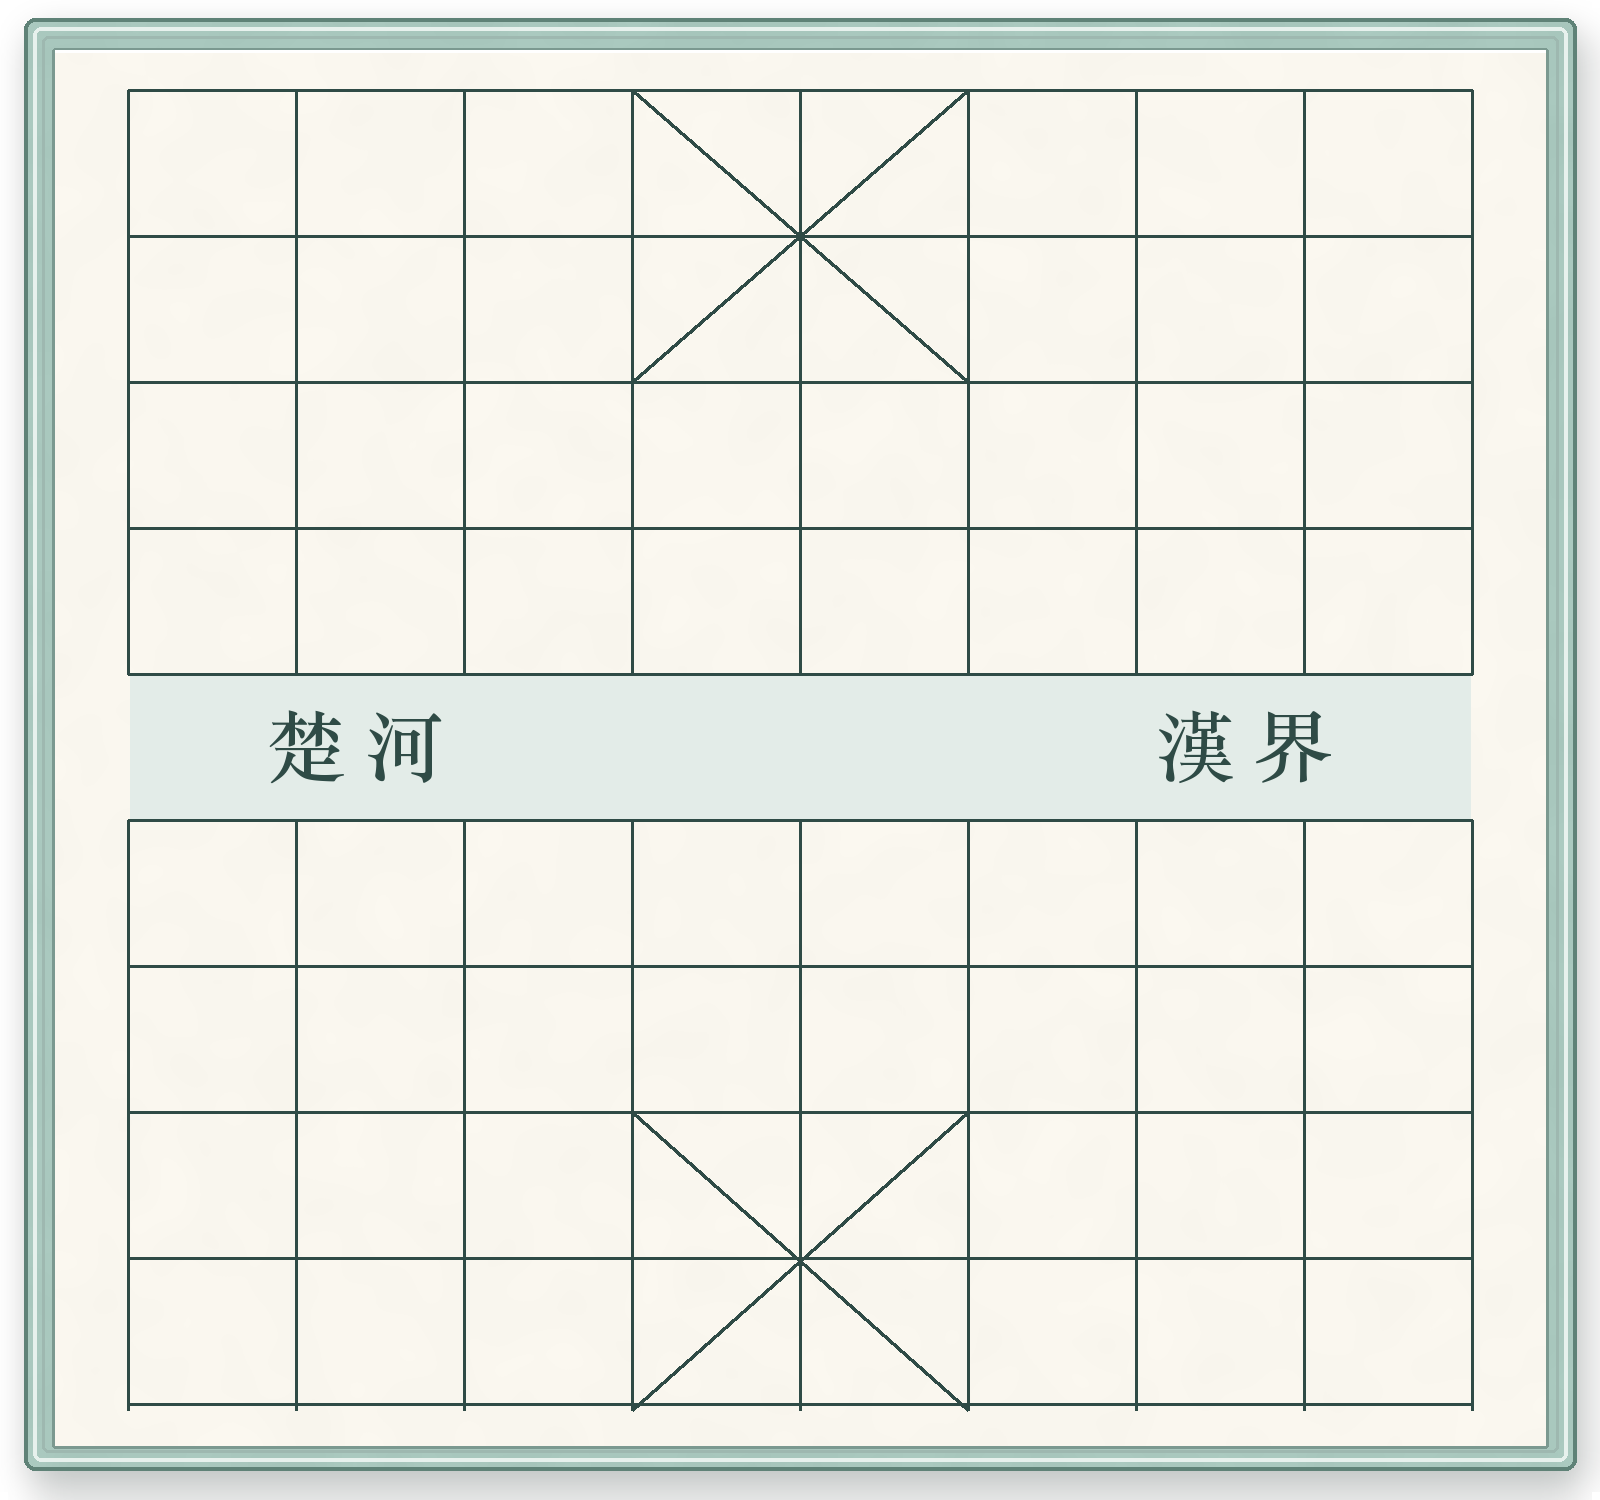
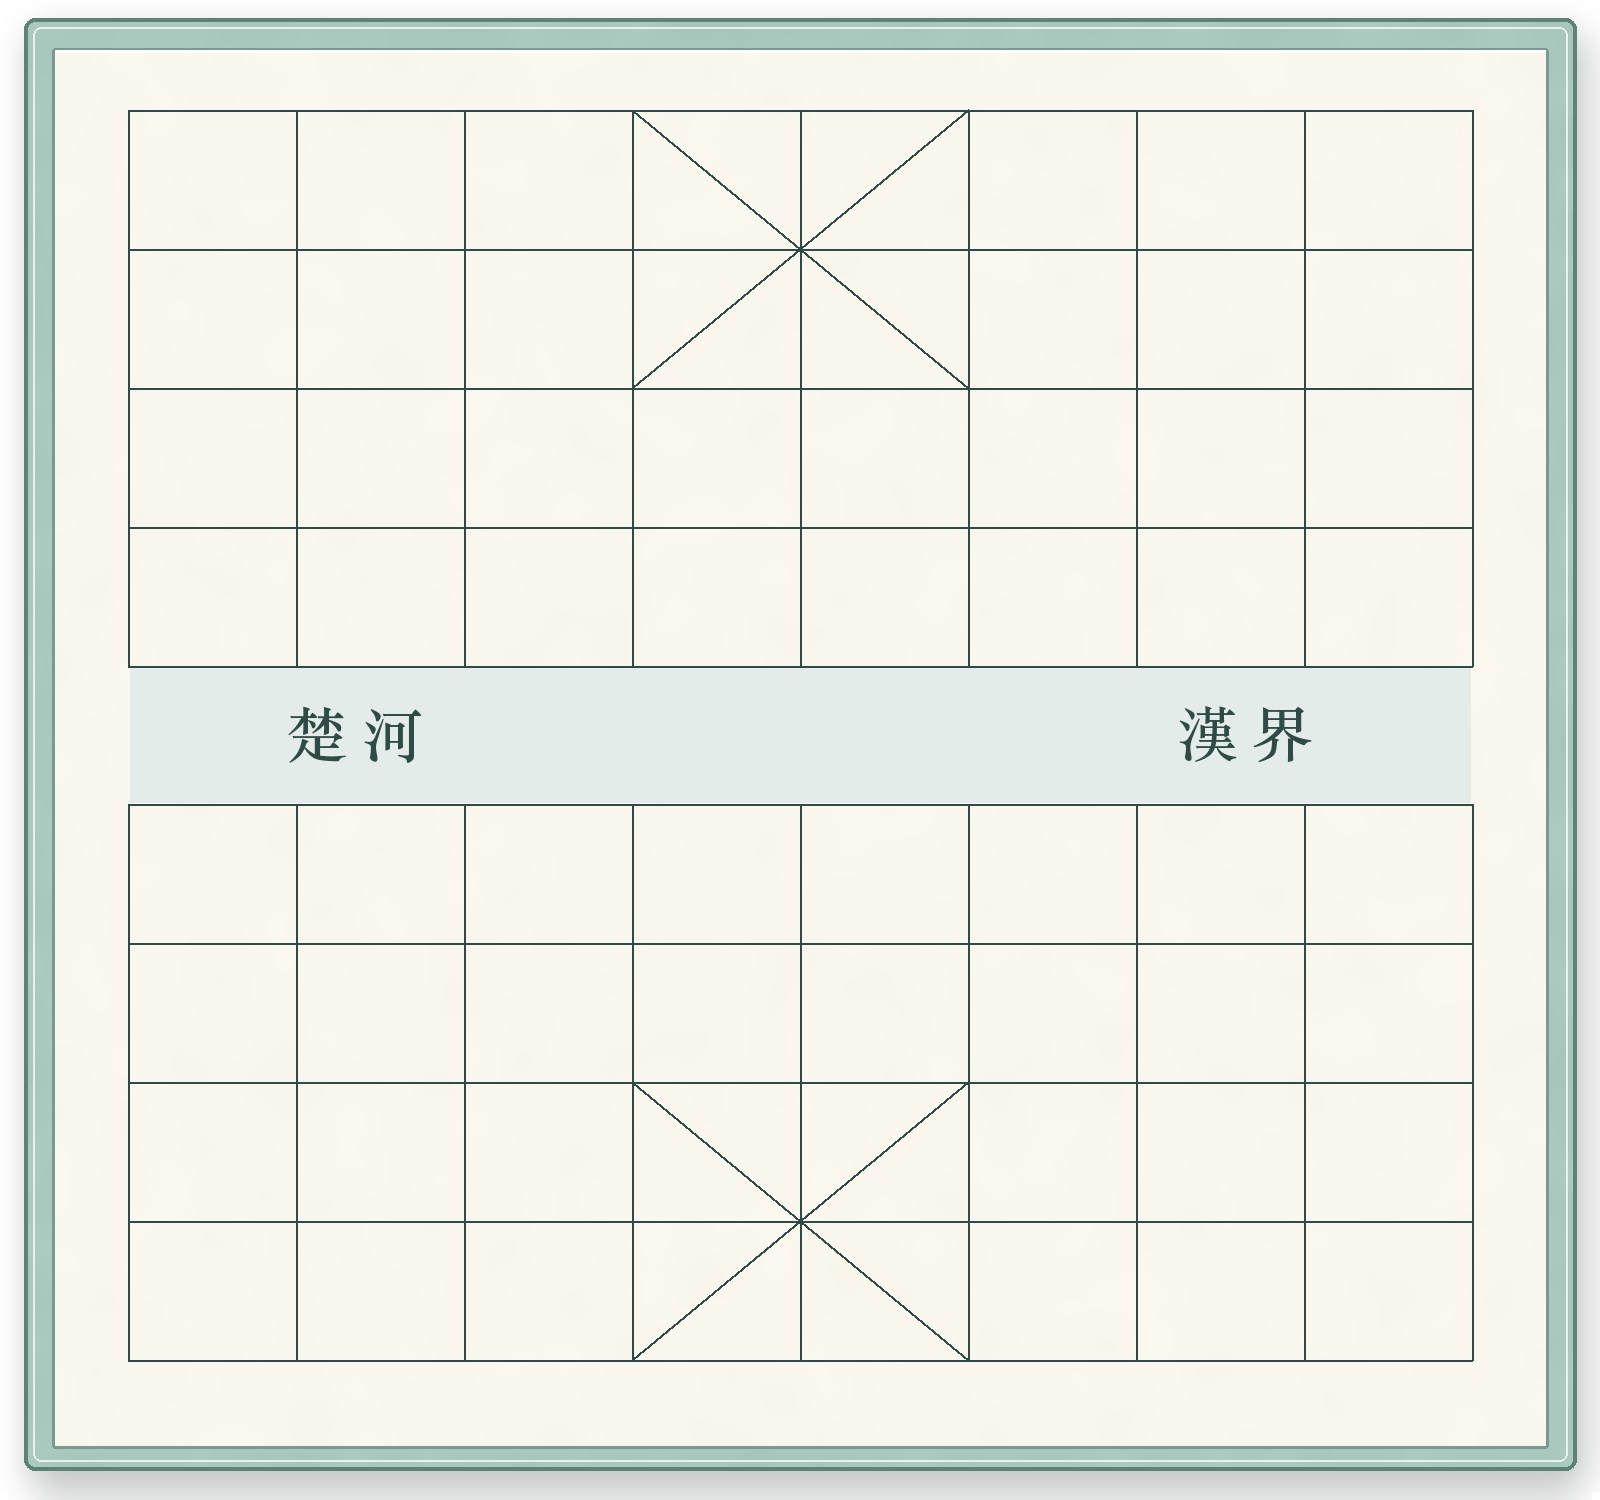
fix: refine xiangqi board spacing
- Reduce ceramic piece scale and inset the grid to restore bottom-row breathing room
- Align generated board lines with runtime intersections and simplify the porcelain frame
- Advance Xiangqi to 0.0.13 with geometry and asset regression coverage

diff --git a/games/xiangqi/src/test/java/com/buddygames/xiangqi/XiangqiPieceAssetsTest.kt b/games/xiangqi/src/test/java/com/buddygames/xiangqi/XiangqiPieceAssetsTest.kt
@@ -37,11 +37,24 @@ class XiangqiPieceAssetsTest {
         assertEquals(1600, XIANGQI_BOARD_TEXTURE_WIDTH)
         assertEquals(1500, XIANGQI_BOARD_TEXTURE_HEIGHT)
         assertEquals(128f / 1600f, XIANGQI_GRID_LEFT_FRACTION, 0.0001f)
-        assertEquals(90f / 1500f, XIANGQI_GRID_TOP_FRACTION, 0.0001f)
+        assertEquals(110f / 1500f, XIANGQI_GRID_TOP_FRACTION, 0.0001f)
         assertEquals(1472f / 1600f, XIANGQI_GRID_RIGHT_FRACTION, 0.0001f)
-        assertEquals(1410f / 1500f, XIANGQI_GRID_BOTTOM_FRACTION, 0.0001f)
+        assertEquals(1360f / 1500f, XIANGQI_GRID_BOTTOM_FRACTION, 0.0001f)
         assertEquals(1600f / 1500f, XIANGQI_BOARD_ASPECT_RATIO, 0.0001f)
-        assertEquals(0.90f, XIANGQI_PIECE_TEXTURE_SCALE, 0.0001f)
+        assertEquals(0.80f, XIANGQI_PIECE_TEXTURE_SCALE, 0.0001f)
+    }
+
+    @Test
+    fun bottomRowLeavesVisibleClearanceInsideTheBoardFrame() {
+        val gridHeight =
+            XIANGQI_BOARD_TEXTURE_HEIGHT *
+                (XIANGQI_GRID_BOTTOM_FRACTION - XIANGQI_GRID_TOP_FRACTION)
+        val cellHeight = gridHeight / 9f
+        val bottomInset =
+            XIANGQI_BOARD_TEXTURE_HEIGHT * (1f - XIANGQI_GRID_BOTTOM_FRACTION)
+        val visibleClearance = bottomInset - cellHeight * XIANGQI_PIECE_TEXTURE_SCALE / 2f
+
+        assertTrue("bottom-row pieces need clear space above the frame", visibleClearance >= 80f)
     }
 
     @Test
@@ -88,6 +101,18 @@ class XiangqiPieceAssetsTest {
             board.getRGB(800, 750),
             expected = 0xFFE2ECE7.toInt(),
             tolerance = 20
+        )
+        assertColorNear(
+            "registered top grid line",
+            board.getRGB(700, 110),
+            expected = 0xFF27443F.toInt(),
+            tolerance = 16
+        )
+        assertColorNear(
+            "registered bottom grid line",
+            board.getRGB(700, 1360),
+            expected = 0xFF27443F.toInt(),
+            tolerance = 16
         )
     }
 

diff --git a/games/xiangqi/src/main/java/com/buddygames/xiangqi/XiangqiPieceTextures.kt b/games/xiangqi/src/main/java/com/buddygames/xiangqi/XiangqiPieceTextures.kt
@@ -12,10 +12,10 @@ internal const val XIANGQI_BOARD_TEXTURE_HEIGHT = 1500
 internal const val XIANGQI_BOARD_ASPECT_RATIO =
     XIANGQI_BOARD_TEXTURE_WIDTH.toFloat() / XIANGQI_BOARD_TEXTURE_HEIGHT
 internal const val XIANGQI_GRID_LEFT_FRACTION = 128f / XIANGQI_BOARD_TEXTURE_WIDTH
-internal const val XIANGQI_GRID_TOP_FRACTION = 90f / XIANGQI_BOARD_TEXTURE_HEIGHT
+internal const val XIANGQI_GRID_TOP_FRACTION = 110f / XIANGQI_BOARD_TEXTURE_HEIGHT
 internal const val XIANGQI_GRID_RIGHT_FRACTION = 1472f / XIANGQI_BOARD_TEXTURE_WIDTH
-internal const val XIANGQI_GRID_BOTTOM_FRACTION = 1410f / XIANGQI_BOARD_TEXTURE_HEIGHT
-internal const val XIANGQI_PIECE_TEXTURE_SCALE = 0.90f
+internal const val XIANGQI_GRID_BOTTOM_FRACTION = 1360f / XIANGQI_BOARD_TEXTURE_HEIGHT
+internal const val XIANGQI_PIECE_TEXTURE_SCALE = 0.80f
 
 private const val MAX_DECODED_PIECE_DIMENSION = 512
 private const val MAX_DECODED_BOARD_DIMENSION = 2048

diff --git a/games/xiangqi/src/test/java/com/buddygames/xiangqi/XiangqiRulesTest.kt b/games/xiangqi/src/test/java/com/buddygames/xiangqi/XiangqiRulesTest.kt
@@ -11,9 +11,9 @@ import org.junit.Test
 class XiangqiRulesTest {
     @Test
     fun gameVersionAndMainMenuLabelStayAligned() {
-        assertEquals(12, XiangqiPlugin.manifest.versionCode)
-        assertEquals("0.0.12", XiangqiPlugin.manifest.versionName)
-        assertEquals("版本 0.0.12", xiangqiVersionLabel(XiangqiPlugin.manifest.versionName))
+        assertEquals(13, XiangqiPlugin.manifest.versionCode)
+        assertEquals("0.0.13", XiangqiPlugin.manifest.versionName)
+        assertEquals("版本 0.0.13", xiangqiVersionLabel(XiangqiPlugin.manifest.versionName))
     }
 
     @Test

diff --git a/games/xiangqi/src/main/java/com/buddygames/xiangqi/XiangqiPlugin.kt b/games/xiangqi/src/main/java/com/buddygames/xiangqi/XiangqiPlugin.kt
@@ -233,8 +233,8 @@ class XiangqiPlugin : GamePlugin {
         val manifest = GameManifest(
             gameId = "xiangqi",
             displayName = "象棋",
-            versionCode = 12,
-            versionName = "0.0.12",
+            versionCode = 13,
+            versionName = "0.0.13",
             entryClass = "com.buddygames.xiangqi.XiangqiPlugin",
             minShellApi = 1,
             icon = "assets/icon.png"

diff --git a/games/xiangqi/tools/generate_xiangqi_assets.py b/games/xiangqi/tools/generate_xiangqi_assets.py
@@ -12,9 +12,9 @@ from PIL import Image, ImageDraw, ImageFilter, ImageFont
 
 BOARD_SIZE = (1600, 1500)
 GRID_LEFT = 128
-GRID_TOP = 90
+GRID_TOP = 110
 GRID_RIGHT = 1472
-GRID_BOTTOM = 1410
+GRID_BOTTOM = 1360
 PIECE_SIZE = 1024
 REQUIRED_GLYPHS = "帥俥傌炮相仕兵將車馬砲象士卒楚河漢界"
 PIECE_MASTER = Path(__file__).resolve().parent / "source" / "ceramic-piece-master.png"
@@ -164,13 +164,7 @@ def generate_board(output: Path, font_spec: FontSpec) -> None:
         (33, 27, width - 33, height - 39),
         8,
         outline=(226, 239, 234, 210),
-        width=4,
-    )
-    draw.rounded_rectangle(
-        (42, 36, width - 42, height - 48),
-        6,
-        outline=(126, 160, 150, 190),
-        width=3,
+        width=2,
     )
 
     field_box = (52, 48, width - 52, height - 52)
@@ -189,29 +183,36 @@ def generate_board(output: Path, font_spec: FontSpec) -> None:
     )
 
     line_color = (39, 68, 63, 245)
-    line_width = 3
-    dx = (GRID_RIGHT - GRID_LEFT) // 8
-    dy = (GRID_BOTTOM - GRID_TOP) // 9
+    line_width = 2
+    dx = (GRID_RIGHT - GRID_LEFT) / 8
+    dy = (GRID_BOTTOM - GRID_TOP) / 9
+
+    def x_at(col: int) -> int:
+        return round(GRID_LEFT + col * dx)
+
+    def y_at(row: int) -> int:
+        return round(GRID_TOP + row * dy)
+
     river_top = GRID_TOP + 4 * dy
     river_bottom = GRID_TOP + 5 * dy
     draw.rectangle(
-        (GRID_LEFT + 2, river_top + 2, GRID_RIGHT - 2, river_bottom - 2),
+        (GRID_LEFT + 2, round(river_top) + 2, GRID_RIGHT - 2, round(river_bottom) - 2),
         fill=(226, 236, 231, 242),
     )
     for row in range(10):
-        y = GRID_TOP + row * dy
+        y = y_at(row)
         draw.line((GRID_LEFT, y, GRID_RIGHT, y), fill=line_color, width=line_width)
     for col in range(9):
-        x = GRID_LEFT + col * dx
-        draw.line((x, GRID_TOP, x, GRID_TOP + 4 * dy), fill=line_color, width=line_width)
-        draw.line((x, GRID_TOP + 5 * dy, x, GRID_BOTTOM), fill=line_color, width=line_width)
+        x = x_at(col)
+        draw.line((x, GRID_TOP, x, y_at(4)), fill=line_color, width=line_width)
+        draw.line((x, y_at(5), x, GRID_BOTTOM), fill=line_color, width=line_width)
 
-    draw.line((GRID_LEFT + 3 * dx, GRID_TOP, GRID_LEFT + 5 * dx, GRID_TOP + 2 * dy), fill=line_color, width=line_width)
-    draw.line((GRID_LEFT + 5 * dx, GRID_TOP, GRID_LEFT + 3 * dx, GRID_TOP + 2 * dy), fill=line_color, width=line_width)
-    draw.line((GRID_LEFT + 3 * dx, GRID_TOP + 7 * dy, GRID_LEFT + 5 * dx, GRID_BOTTOM), fill=line_color, width=line_width)
-    draw.line((GRID_LEFT + 5 * dx, GRID_TOP + 7 * dy, GRID_LEFT + 3 * dx, GRID_BOTTOM), fill=line_color, width=line_width)
+    draw.line((x_at(3), y_at(0), x_at(5), y_at(2)), fill=line_color, width=line_width)
+    draw.line((x_at(5), y_at(0), x_at(3), y_at(2)), fill=line_color, width=line_width)
+    draw.line((x_at(3), y_at(7), x_at(5), y_at(9)), fill=line_color, width=line_width)
+    draw.line((x_at(5), y_at(7), x_at(3), y_at(9)), fill=line_color, width=line_width)
 
-    river_font = load_font(font_spec, 78)
+    river_font = load_font(font_spec, 60)
     river_y = GRID_TOP + int(4.5 * dy)
     centered_text(
         draw,

diff --git a/docs/superpowers/plans/2026-07-21-xiangqi-board-spacing-fix.md b/docs/superpowers/plans/2026-07-21-xiangqi-board-spacing-fix.md
@@ -1,0 +1,19 @@
+# Xiangqi Board Spacing Fix
+
+**Scope:** `games/xiangqi` UI geometry and package-owned board asset only.
+
+## Acceptance
+
+- Xiangqi advances to `versionCode = 13` and `versionName = 0.0.13`; the shell version stays unchanged.
+- Ceramic pieces render at 80% of one grid step without changing source texture geometry.
+- The 1600 x 1500 board registers its grid at left/top/right/bottom `128/110/1472/1360`.
+- Every generated grid line is derived from the complete floating-point bounds so the PNG and runtime intersections agree at both end rows.
+- Bottom-row pieces leave at least 80 source pixels of visible clearance above the board edge.
+- The board keeps the approved porcelain, celadon, ink, and ceramic appearance while using a lighter grid, smaller river labels, and one fewer nested frame line.
+- Rules, AI, undo, orientation, and latest-move marker geometry remain unchanged.
+
+## Verification
+
+1. Run `./gradlew :games:xiangqi:testDebugUnitTest`.
+2. Run `npm run verify`.
+3. Start the emulator, open the Xiangqi menu and a match, and compare both runtime captures with `designs/previews/xiangqi-ui-menu.png`.

diff --git a/designs/specs/xiangqi-ui.md b/designs/specs/xiangqi-ui.md
@@ -3,7 +3,7 @@
 **Slug:** `xiangqi-ui`
 **User brief (verbatim summary):** "设计 象棋 游戏界面偏向明亮、简洁、中式，每个棋子和完整棋盘需要单独一个 png 图片保存用于做贴图"
 **Stack:** Kotlin, Jetpack Compose, Material 3, offline Android Pad game package
-**Iteration:** 2026-07-19T19:30:00+08:00
+**Iteration:** 2026-07-21T00:00:00+08:00
 
 ## Base System (Step 1 - ui-ux-pro-max)
 
@@ -169,9 +169,10 @@ The board is the dominant unframed play surface; a single full-height score-shee
 - The PNG owns the complete grid, palace diagonals, river band, `楚河` / `漢界`, rim, and surface material.
 - Preserve interaction registration:
   - grid left: `128 / 1600`
-  - grid top: `90 / 1500`
+  - grid top: `110 / 1500`
   - grid right: `1472 / 1600`
-  - grid bottom: `1410 / 1500`
+  - grid bottom: `1360 / 1500`
+- Generate every row and column from these complete floating-point bounds, rounding each final coordinate independently so the first and last PNG lines exactly match Compose interaction registration.
 - Camera is perfectly orthographic and front-facing. The board uses a thin celadon frame, warm-white inset field, and restrained lower-right elevation shadow matching `designs/previews/xiangqi-ui-menu.png`.
 - No perspective, board rotation, pieces, hands, room, table, text outside the river labels, watermark, thick nested frame, or position marks absent from the approved menu preview.
 - Surface texture is subtle enough that every grid line remains crisp at tablet resolution.
@@ -190,7 +191,7 @@ The board is the dominant unframed play surface; a single full-height score-shee
 - Glyphs must be upright, centered, legible, and use a consistent Song-style engraved/inked treatment.
 - No board, opaque background, floor plane, extra symbol, English, watermark, wood grain, stone texture, or decorative motif.
 - `games/xiangqi/tools/source/ceramic-piece-master.png` is the approved blank material master. The generator must resize this same master and add exact local-font glyphs so all fourteen output files retain identical ceramic lighting and geometry.
-- Compose renders with `ContentScale.Fit`; selection and latest-move overlays remain code-drawn above the texture.
+- Compose renders the trimmed visible piece at `80%` of one grid step with `ContentScale.Fit`; selection and latest-move overlays remain code-drawn above the texture. At the bottom row this leaves at least 80 source pixels between the visible piece boundary and the board edge.
 
 ## Board State Language
 

diff --git a/README.md b/README.md
@@ -54,7 +54,7 @@ files/
 
 安装流程会验证清单和 `plugin.apk`，拒绝低版本覆盖，并在 Android 14 及以上系统加载动态代码前将 `plugin.apk` 设为只读。`icon` 可指向包内 PNG、WebP、JPEG 或 UTF-8 文本文件；图标缺失或无法读取时，首页使用 `displayName` 的首字符作为回退。四款内置游戏均将独立的 1024×1024 圆形 PNG Logo 放在各自包内的 `assets/icon.png`，可随单个游戏包独立更新。当前 MVP 支持本地文件导入，不包含在线分发、自动更新和游戏包签名验证。
 
-每款游戏独立维护版本并从 `0.0.1` 开始；当前五子棋和黑白棋为 `0.0.5`，国际象棋为 `0.0.9`，象棋为 `0.0.12`。游戏开始界面会显示该游戏包的 `versionName`。修改某款游戏的规则、机器人、界面或包内资源时，只递增该游戏的 `versionCode` 和语义化 `versionName`，并保持插件代码与 `package/manifest.json` 中的版本一致；仅修改游戏中心外壳不需要调整游戏版本。
+每款游戏独立维护版本并从 `0.0.1` 开始；当前五子棋和黑白棋为 `0.0.5`，国际象棋为 `0.0.9`，象棋为 `0.0.13`。游戏开始界面会显示该游戏包的 `versionName`。修改某款游戏的规则、机器人、界面或包内资源时，只递增该游戏的 `versionCode` 和语义化 `versionName`，并保持插件代码与 `package/manifest.json` 中的版本一致；仅修改游戏中心外壳不需要调整游戏版本。
 
 游戏包契约、清单字段和新增游戏步骤见 [游戏插件开发说明](docs/agents/game-plugins.md)。
 
@@ -64,7 +64,7 @@ files/
 
 - **五子棋**：15×15 棋盘，棋子落在交叉点；机器人依次处理立即取胜、拦截对手成五、拦截会形成双胜点的活三，再进行常规位置选择。死四、连续活三和间隔活三均有规则测试覆盖。
 - **黑白棋**：支持合法落子、翻转、跳过无合法步回合和终局计分；双人模式不显示机器人辅助提示点。
-- **象棋**：棋子落在棋盘交叉点，支持安全合法着法、将军、将死与胜负判断；单人 AI 优先直接胜利和强制将军，并评估对手下一步最强反击，避免为了吃小子而立即损失高价值棋子。单人玩家执黑时棋盘按 180° 视角映射，让黑方区域位于下方，同时保持棋子文字正向；当前回合按红方或黑方着色，将军时在右侧状态栏显示提示。和棋作为独立终局结果，不改变比分、下一回合执方或单人智能等级。界面采用明亮简洁的“晴光瓷局”设计：游戏包携带一张完整的 1600×1500 横向薄框青瓷棋盘 PNG，以及红黑双方 14 种独立的 1024×1024 透明陶瓷棋子 PNG；棋子保留双金边、釉面高光、立体暗部和柔和投影，运行时按固定网格坐标加载，素材缺失时回退到 Compose 绘制。所有棋子由同一母版 `games/xiangqi/tools/source/ceramic-piece-master.png` 生成，再叠加准确的本地繁体字形。
+- **象棋**：棋子落在棋盘交叉点，支持安全合法着法、将军、将死与胜负判断；单人 AI 优先直接胜利和强制将军，并评估对手下一步最强反击，避免为了吃小子而立即损失高价值棋子。单人玩家执黑时棋盘按 180° 视角映射，让黑方区域位于下方，同时保持棋子文字正向；当前回合按红方或黑方着色，将军时在右侧状态栏显示提示。和棋作为独立终局结果，不改变比分、下一回合执方或单人智能等级。界面采用明亮简洁的“晴光瓷局”设计：游戏包携带一张完整的 1600×1500 横向薄框青瓷棋盘 PNG，以及红黑双方 14 种独立的 1024×1024 透明陶瓷棋子 PNG；棋子保留双金边、釉面高光、立体暗部和柔和投影，按单格 `80%` 显示，并通过内收的上下网格边界为底线棋子保留清晰留白。运行时按与 PNG 完全一致的固定网格坐标加载，素材缺失时回退到 Compose 绘制。所有棋子由同一母版 `games/xiangqi/tools/source/ceramic-piece-master.png` 生成，再叠加准确的本地繁体字形。
 - **国际象棋**：完整支持王车易位、吃过路兵、可选择后/车/象/马的升变、将军与将死，以及逼和、三次重复、五十回合和子力不足和棋。单人 AI 使用纯 Kotlin 的迭代加深 Negamax、Alpha-Beta 剪枝、置换表、走法排序和静态搜索，按玩家累计胜局映射到 1–10 级并在设备上离线运行；搜索会继承本局重复历史并保持将死优先于自动和棋。所有和棋都不改变比分、下一回合执方或单人智能等级。玩家每次落子与吃子均按机器人应答后的当前棋局重新解析合法走法。玩家执黑时棋盘旋转 180°，棋子保持正向。游戏包在 `assets/pieces/` 中携带黑白双方共 12 枚 1024×1024 透明 PNG 棋子贴图，菜单、棋盘和升变选择均从当前安装的游戏包加载并缓存这些贴图；单张素材缺失或损坏时自动回退到 Unicode 棋子。
 
 ## 环境要求

diff --git a/designs/images/xiangqi-ui-menu.md b/designs/images/xiangqi-ui-menu.md
@@ -10,7 +10,7 @@ Landscape Android Pad UI at 1600 x 1000. The complete 9 x 10 board dominates the
 ## Modules
 
 - **Porcelain board:** complete orthographic pale board, thin celadon rim, ink grid, palace diagonals, and pale celadon river band.
-- **Initial pieces:** all 32 round pieces placed at intersections using the matched ivory/cinnabar and ivory/blue-black texture family.
+- **Initial pieces:** all 32 round pieces placed at intersections using the matched ivory/cinnabar and ivory/blue-black texture family, sized to leave clear space between neighboring pieces and between the bottom row and frame.
 - **Menu rail:** title `象棋`, subtitle `楚河 · 漢界`, version label, and buttons `单人模式`, `双人对战`, `退出游戏`.
 - **Backdrop:** quiet bright mineral-celadon field with one or two subtle horizontal rules, not a framed card.
 
@@ -20,4 +20,4 @@ Use `#EAF1EF` canvas, `#FAF7EF` board, `#A9C8BE` rim, `#27443F` grid, `#E2ECE7` 
 
 ## Image Prompt
 
-Create a polished high-fidelity UI mockup for an offline Chinese chess Xiangqi game on a landscape Android tablet, 1600x1000 composition. Bright, simple, contemporary Chinese visual direction. Left two-thirds: a complete orthographic 9-by-10 Xiangqi board, warm ivory porcelain surface #FAF7EF, thin pale celadon glazed rim #A9C8BE, crisp dark ink-green grid #27443F, palace diagonals, and a very pale celadon river band #E2ECE7 with exact readable Chinese labels "楚河" and "漢界". Place all 32 circular pieces precisely on intersections. Every piece shares the same raised warm-ivory glazed ceramic body, slim double brass-gold rim, upper-left highlight, lower-right shade and soft cast shadow; red uses cinnabar glyphs and black uses blue-black glyphs. Right third: a flat matte white score-sheet rail #FBFCFA, title "象棋", subtitle "楚河 · 漢界", small version label, then three large dark-ink outlined icon-and-text buttons labeled "单人模式", "双人对战", "退出游戏". Background #EAF1EF with sparse subtle horizontal rules. Modern Android Pad interface, generous spacing, high contrast, no cards inside cards, no dark wood, no antique scroll, no dragons, no clouds, no ornate palace decoration, no glassmorphism, no gradient, no hands, no device frame, no watermark. Maintain practical 800x600 landscape proportions and readable Chinese UI.
+Create a polished high-fidelity UI mockup for an offline Chinese chess Xiangqi game on a landscape Android tablet, 1600x1000 composition. Bright, simple, contemporary Chinese visual direction. Left two-thirds: a complete orthographic 9-by-10 Xiangqi board, warm ivory porcelain surface #FAF7EF, thin pale celadon glazed rim #A9C8BE, crisp dark ink-green grid #27443F, palace diagonals, and a very pale celadon river band #E2ECE7 with exact readable Chinese labels "楚河" and "漢界". Place all 32 circular pieces precisely on intersections at about 80% of one grid step, with obvious space between neighboring pieces and generous clearance between the bottom row and celadon frame. Every piece shares the same raised warm-ivory glazed ceramic body, slim double brass-gold rim, upper-left highlight, lower-right shade and soft cast shadow; red uses cinnabar glyphs and black uses blue-black glyphs. Right third: a flat matte white score-sheet rail #FBFCFA, title "象棋", subtitle "楚河 · 漢界", small version label, then three large dark-ink outlined icon-and-text buttons labeled "单人模式", "双人对战", "退出游戏". Background #EAF1EF with sparse subtle horizontal rules. Modern Android Pad interface, generous spacing, high contrast, no cards inside cards, no dark wood, no antique scroll, no dragons, no clouds, no ornate palace decoration, no glassmorphism, no gradient, no hands, no device frame, no watermark. Maintain practical 800x600 landscape proportions and readable Chinese UI.

diff --git a/AGENTS.md b/AGENTS.md
@@ -25,7 +25,7 @@ Current game behavior:
 - In single-player mode, a player win swaps sides for the next round, a player loss restores the player to the first-moving side, and the robot opens immediately when the player becomes second. A draw changes neither score, current player side, nor score-derived intelligence level; two-player restart behavior stays fixed-first.
 - Gomoku uses a 15×15 intersection board. Its robot priority is: win immediately, block an immediate five (including closed four), block moves that create at least two immediate winning points (continuous or broken open three), then use the positional fallback.
 - Othello hides robot hint points in two-player mode.
-- Xiangqi version `0.0.12` uses intersection placement, filters moves that expose the moving side's general, recognizes capture and checkmate wins, colors the active side in the turn display, and shows `将军` in the side panel when applicable. Its package-local session result distinguishes red win, black win, and draw; a draw is terminal but leaves score, current player side, and intelligence level unchanged. Its bright porcelain-and-celadon UI follows `designs/specs/xiangqi-ui.md`: the package owns one complete 1600x1500 RGBA board at `assets/board/xiangqi-board.png` plus fourteen independent 1024x1024 transparent piece PNGs under `assets/pieces/`. All pieces derive from `games/xiangqi/tools/source/ceramic-piece-master.png` and must preserve its double gold rim, glaze highlight, bevel shade, and soft lower-right shadow after runtime scaling. Keep the documented normalized grid bounds, exact traditional glyph mapping, matched piece geometry, fallback rendering, package-local loading, and shared latest-move marker covered by `XiangqiPieceAssetsTest`. Its intelligence gradient is defined in `docs/superpowers/specs/2026-07-18-xiangqi-intelligence-gradient-design.md`: single-player AI level is the human player's accumulated win score plus one, capped at level 10. A pure-Kotlin iterative-deepening Negamax search uses a primitive make/unmake position, cached move ordering, effective-depth statistics, a bounded transposition table, per-level node/depth/deadline budgets, deterministic weakening for levels 1-5, and bounded quiescence for levels 8-10; levels 4 and 6 are the first four-ply and five-ply transition tiers, and search runs away from the Compose UI thread. Single-player scoring follows player-versus-robot identities across side swaps, while two-player scoring stays red-versus-black. In single-player mode, a black-side player sees a 180-degree coordinate-mapped board with black at the bottom while piece text stays upright.
+- Xiangqi version `0.0.13` uses intersection placement, filters moves that expose the moving side's general, recognizes capture and checkmate wins, colors the active side in the turn display, and shows `将军` in the side panel when applicable. Its package-local session result distinguishes red win, black win, and draw; a draw is terminal but leaves score, current player side, and intelligence level unchanged. Its bright porcelain-and-celadon UI follows `designs/specs/xiangqi-ui.md`: the package owns one complete 1600x1500 RGBA board at `assets/board/xiangqi-board.png` plus fourteen independent 1024x1024 transparent piece PNGs under `assets/pieces/`. All pieces derive from `games/xiangqi/tools/source/ceramic-piece-master.png` and must preserve its double gold rim, glaze highlight, bevel shade, and soft lower-right shadow after runtime scaling. The runtime piece diameter is 80% of one grid step; the grid is registered at 128/110/1472/1360, leaving at least 80 source pixels of visible clearance below bottom-row pieces. Keep these bounds, the exact traditional glyph mapping, matched piece geometry, fallback rendering, package-local loading, and shared latest-move marker covered by `XiangqiPieceAssetsTest`. Its intelligence gradient is defined in `docs/superpowers/specs/2026-07-18-xiangqi-intelligence-gradient-design.md`: single-player AI level is the human player's accumulated win score plus one, capped at level 10. A pure-Kotlin iterative-deepening Negamax search uses a primitive make/unmake position, cached move ordering, effective-depth statistics, a bounded transposition table, per-level node/depth/deadline budgets, deterministic weakening for levels 1-5, and bounded quiescence for levels 8-10; levels 4 and 6 are the first four-ply and five-ply transition tiers, and search runs away from the Compose UI thread. Single-player scoring follows player-versus-robot identities across side swaps, while two-player scoring stays red-versus-black. In single-player mode, a black-side player sees a 180-degree coordinate-mapped board with black at the bottom while piece text stays upright.
 - International Chess version `0.0.9` uses standard square placement, complete special moves and draw rules, legal-move-equivalent threefold-repetition keys, player-score-driven 1-10 offline search, explicit draw session state, Xiangqi-family score/undo/restart behavior, and a 180-degree Black-player view with upright pieces. Every draw type leaves score, current player side, and intelligence level unchanged. Player tap resolution always regenerates candidates from the current position after robot replies so subsequent moves and captures cannot use a stale previous-turn move list. Its package owns 12 transparent 1024×1024 Staunton piece PNGs under `assets/pieces/`; keep their names, dimensions, alpha corners, package ownership, exact piece mapping, transparent-margin trim, and 82% board-square render scale covered by `ChessPieceAssetsTest`. The menu board, active board, and promotion picker load and cache these package-owned textures once per installed package version, while any missing or invalid texture falls back to the corresponding Unicode glyph. Runtime decoding trims only fully transparent outer pixels in memory so the physical pieces match the approved scale without modifying package assets. Its cool mineral rim, tournament-green/ivory squares, rim coordinates, flat score-sheet rail, and state overlays follow `designs/specs/international-chess-ui.md`; the square board and right rail remain side by side at 800×600 landscape, and the rail distinguishes the active side, check, terminal result, AI level, undo, and restart.
 - International Chess promotion must expose queen, rook, bishop, and knight choices to human players; its search must preserve checkmate precedence over automatic draws and include session repetition history.
 - International Chess search and session repetition keys must remain identical, including normalized move-counter hash components and both usable and unusable en-passant rights.

diff --git a/designs/specs/xiangqi-ui-implementation.md b/designs/specs/xiangqi-ui-implementation.md
@@ -17,6 +17,8 @@
 - Red and Black piece families share identical shape, size, lighting, and crop.
 - The upper-left glaze highlight, double gold rim, lower-right bevel shade, and soft cast shadow remain visible after runtime scaling.
 - Piece edges remain distinguishable over every board area.
+- Runtime piece diameter remains at 80% of one grid step, and bottom-row pieces retain visible space above the inner frame.
+- The generated PNG's first and last grid lines exactly match the registered top and bottom coordinates.
 - Latest-move and selection overlays remain outside the visible piece boundary.
 - No generated watermark, background, accidental extra glyph, or mixed visual style remains.
 